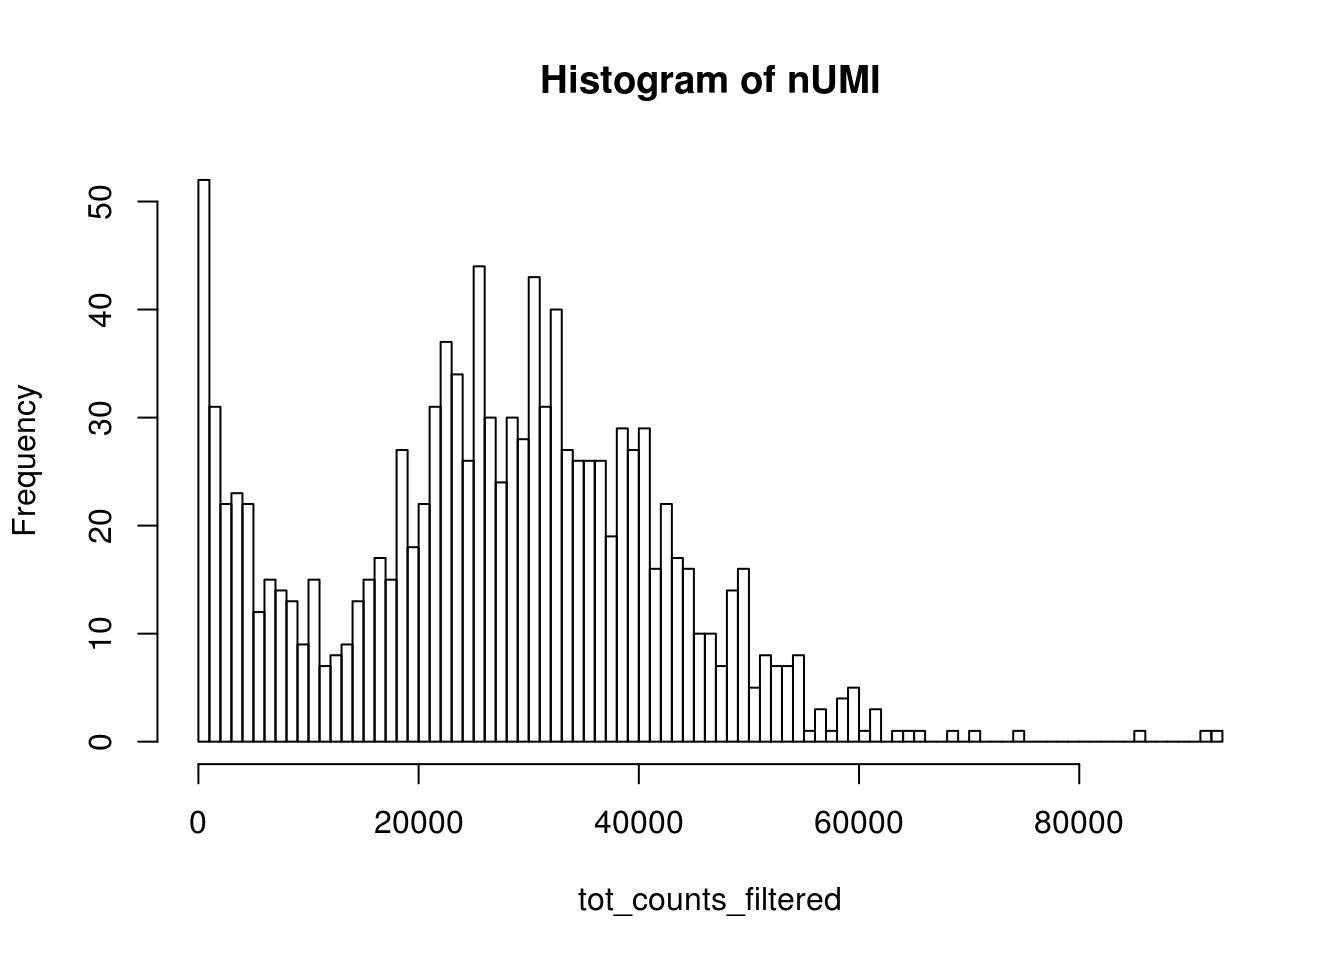
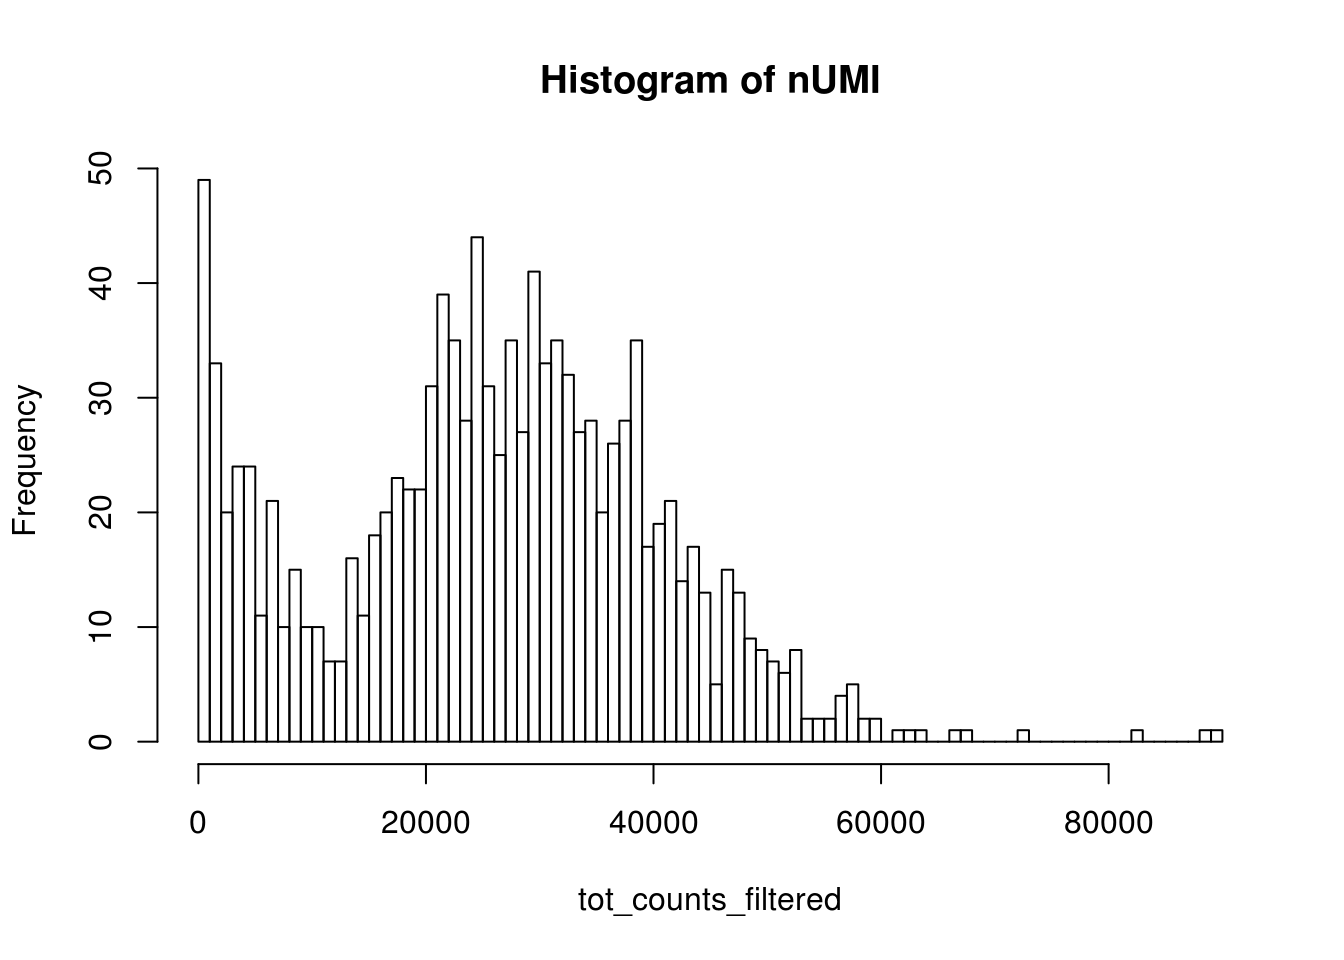
Build site.

diff --git a/docs/10xv2.html b/docs/10xv2.html
@@ -11,7 +11,7 @@
 
 <meta name="author" content="Lambda Moses" />
 
-<meta name="date" content="2018-12-14" />
+<meta name="date" content="2018-12-19" />
 
 <title>Processing kallisto bus Output (10x v2 chemistry)</title>
 
@@ -415,12 +415,12 @@ div.section {
 
 <h1 class="title toc-ignore">Processing kallisto bus Output (10x v2 chemistry)</h1>
 <h4 class="author"><em>Lambda Moses</em></h4>
-<h4 class="date"><em>2018-12-14</em></h4>
+<h4 class="date"><em>2018-12-19</em></h4>
 
 </div>
 
 
-<p><strong>Last updated:</strong> 2018-12-14</p>
+<p><strong>Last updated:</strong> 2018-12-19</p>
 <strong>workflowr checks:</strong> <small>(Click a bullet for more information)</small>
 <ul>
 <li>
@@ -444,7 +444,7 @@ div.section {
 </details>
 </li>
 <li>
-<p><details> <summary> <strong style="color:blue;">✔</strong> <strong>Repository version:</strong> <a href="https://github.com/BUStools/BUS_notebooks_R/tree/ca1d6ce5bd620c25609b92c6d098229c1b713bb6" target="_blank">ca1d6ce</a> </summary></p>
+<p><details> <summary> <strong style="color:blue;">✔</strong> <strong>Repository version:</strong> <a href="https://github.com/BUStools/BUS_notebooks_R/tree/9731fd60718b738ccfc163b04bffe95981fdce6c" target="_blank">9731fd6</a> </summary></p>
 Great! You are using Git for version control. Tracking code development and connecting the code version to the results is critical for reproducibility. The version displayed above was the version of the Git repository at the time these results were generated. <br><br> Note that you need to be careful to ensure that all relevant files for the analysis have been committed to Git prior to generating the results (you can use <code>wflow_publish</code> or <code>wflow_git_commit</code>). workflowr only checks the R Markdown file, but you know if there are other scripts or data files that it depends on. Below is the status of the Git repository when the results were generated:
 <pre><code>
 Ignored files:
@@ -454,6 +454,7 @@ Ignored files:
     Ignored:    analysis/10xv2_cache/
     Ignored:    analysis/10xv3_cache/
     Ignored:    data/fastqs/
+    Ignored:    data/hgmm_100_fastqs.tar
     Ignored:    data/hgmm_1k_fastqs.tar
     Ignored:    data/hgmm_1k_v3_fastqs.tar
     Ignored:    data/hgmm_1k_v3_fastqs/
@@ -462,6 +463,7 @@ Ignored files:
     Ignored:    data/whitelist_v2.txt
     Ignored:    data/whitelist_v3.txt.gz
     Ignored:    output/hs_mm_tr_index.idx
+    Ignored:    output/out_hgmm100/
     Ignored:    output/out_hgmm1k/
     Ignored:    output/out_hgmm1k_v3/
 
@@ -492,6 +494,23 @@ Message
 </tr>
 </thead>
 <tbody>
+<tr>
+<td style="text-align:left;">
+html
+</td>
+<td style="text-align:left;">
+<a href="https://cdn.rawgit.com/BUStools/BUS_notebooks_R/85a5770b53befbfc968af9e488b546e123a8eab6/docs/10xv2.html" target="_blank">85a5770</a>
+</td>
+<td style="text-align:left;">
+Lambda Moses
+</td>
+<td style="text-align:left;">
+2018-12-14
+</td>
+<td style="text-align:left;">
+Build site.
+</td>
+</tr>
 <tr>
 <td style="text-align:left;">
 Rmd
@@ -855,6 +874,8 @@ bustools text -o ./output/out_hgmm1k/output.sorted.txt ./output/out_hgmm1k/outpu
 <p>Note that the function <code>transcript2gene</code> only works for organisms that have gene and transcript IDs in Ensembl, since behind the scene, it’s using biomart to query Ensembl.</p>
 <pre class="r"><code>tr2g &lt;- transcript2gene(c(&quot;Homo sapiens&quot;, &quot;Mus musculus&quot;),
                         kallisto_out_path = &quot;./output/out_hgmm1k&quot;)</code></pre>
+<pre><code>#&gt; Retrieving data from biomart
+#&gt; Sorting</code></pre>
 <pre class="r"><code>head(tr2g)</code></pre>
 <pre><code>#&gt;           transcript              gene
 #&gt; 1: ENST00000434970.2 ENSG00000237235.2
@@ -987,7 +1008,7 @@ cp /home/lambda/cellranger-3.0.1/cellranger-cs/3.0.1/lib/python/cellranger/barco
 whitelist_v2 &lt;- fread(&quot;./data/whitelist_v2.txt&quot;, header = FALSE)$V1
 length(whitelist_v2)</code></pre>
 <pre><code>#&gt; [1] 737280</code></pre>
-<p>There about about 737K valid cell barcodes.</p>
+<p>There about 737K valid cell barcodes.</p>
 <p>Now we have everything we need to make the sparse matrix. This function reads in <code>output.sorted.txt</code> line by line and processes them. It does not do barcode correction for now, so the barcode must exactly match those in the whitelist if one is provided. It took 5 to 6 minutes to construct the sparse matrix in the hgmm6k dataset, which has over 280 million lines in <code>output.sorted.txt</code>, which is over 9GB. Here the data set is smaller, so it’s not taking as long.</p>
 <p>Note that the arguments <code>est_ncells</code> (estimated number of cells) and <code>est_ngenes</code> (estimated number of genes) are important. With the estimate, this function reserves memory for the data to be added into, reducing the need of reallocation, which will slow the function down. Since the vast majority of “cells” you get in this sparse matrix are empty droplets rather than cells, please put at least 200 times more “cells” than you actually expect in <code>est_ncells</code>.</p>
 <pre class="r"><code>res_mat &lt;- make_sparse_matrix(&quot;./output/out_hgmm1k/output.sorted.txt&quot;,
@@ -1015,13 +1036,13 @@ library(Matrix)</code></pre>
 <h3>Filter data</h3>
 <p>Cool, so now we have the sparse matrix. What does it look like?</p>
 <pre class="r"><code>dim(res_mat)</code></pre>
-<pre><code>#&gt; [1]  51306 353957</code></pre>
+<pre><code>#&gt; [1]  51321 348502</code></pre>
 <p>That’s way more cells than we expect, which is about 1000. So what’s going on?</p>
 <p>How many UMIs per barcode?</p>
 <pre class="r"><code>tot_counts &lt;- colSums(res_mat)
 summary(tot_counts)</code></pre>
-<pre><code>#&gt;    Min. 1st Qu.  Median    Mean 3rd Qu.    Max. 
-#&gt;     1.0     1.0     2.0   101.8    11.0 92910.0</code></pre>
+<pre><code>#&gt;     Min.  1st Qu.   Median     Mean  3rd Qu.     Max. 
+#&gt;     1.00     1.00     2.00    99.44    12.00 89418.00</code></pre>
 <p>The vast majority of “cells” have only a few UMI detected. Those are likely to be spurious. In Seurat’s vignettes, a low cutoff is usually set to the total number of UMIs in a cell, and that depends on the sequencing depth.</p>
 <pre class="r"><code>bcs_use &lt;- tot_counts &gt; 500
 tot_counts_filtered &lt;- tot_counts[bcs_use]
@@ -1060,7 +1081,7 @@ Lambda Moses
 <pre class="r"><code># Filter the matrix
 res_mat &lt;- res_mat[,bcs_use]
 dim(res_mat)</code></pre>
-<pre><code>#&gt; [1] 51306  1176</code></pre>
+<pre><code>#&gt; [1] 51321  1173</code></pre>
 <p>Now this is a more reasonable number of cells.</p>
 </div>
 <div id="cell-species" class="section level3">
@@ -1123,14 +1144,14 @@ Lambda Moses
 <pre><code>#&gt; # A tibble: 3 x 3
 #&gt;   species     n proportion
 #&gt;   &lt;chr&gt;   &lt;int&gt;      &lt;dbl&gt;
-#&gt; 1 human     603    0.513  
-#&gt; 2 mixed       5    0.00425
-#&gt; 3 mouse     568    0.483</code></pre>
+#&gt; 1 human     602     0.513 
+#&gt; 2 mixed      26     0.0222
+#&gt; 3 mouse     545     0.465</code></pre>
 <p>Great, only about 0.4% of cells here are doublets, which is lower than the ~1% 10x lists. Doublet rate tends to be lower when cell concentration is lower. However, doublets can still be formed with cells from the same species.</p>
 </div>
 <div id="seurat-exploration" class="section level3">
 <h3>Seurat exploration</h3>
-<p>Note: <a href="https://github.com/satijalab/seurat/tree/release/3.0">Seurat 3.0</a>, which is not yet oon CRAN, is used in this notebook.</p>
+<p>Note: <a href="https://github.com/satijalab/seurat/tree/release/3.0">Seurat 3.0</a>, which is not yet on CRAN, is used in this notebook.</p>
 <pre class="r"><code>seu &lt;- CreateSeuratObject(res_mat, min.cells = 3) %&gt;% 
   NormalizeData(verbose = FALSE) %&gt;% 
   ScaleData(verbose = FALSE) %&gt;% 
